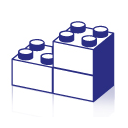
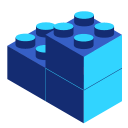
T162 - Pouvoir afficher l'image d'une vignette en grand - odoo-addons/prodex#175

diff --git a/web_image_zoom_widget/static/src/js/web_image_zoom_widget.js b/web_image_zoom_widget/static/src/js/web_image_zoom_widget.js
@@ -15,7 +15,7 @@ odoo.define('web_image_zoom_widget.image_zoom', function (require) {
             this._super();
             var self = this;
             var url_img = this.placeholder;
-            var src_img = this.options.src_img ? 'image' : this.name;
+            var src_img = this.options.src_img ? this.options.src_img : this.name;
             var size_img = this.options.src_img ? 'large' : 'small';
             var $img = null;
 
@@ -37,25 +37,23 @@ odoo.define('web_image_zoom_widget.image_zoom', function (require) {
                 $img.css("height", "" + self.options.size[1] + "px");
             }
 
-            if (self.options.src_img) {
-                self.$el.find('img.img.img-responsive').off().on('click', function () {
-                    $img.css("width", "max-content");
-                    $img.css("height", "max-content");
-                    let modal = new Dialog(self, {
-                        size: size_img,
-                        dialogClass: 'o_act_window fgdgdsgf',
-                        title: _t("Agrandissement"),
-                        $content: $img,
-                        buttons: [
-                            {
-                                text: _t("Close"), classes: 'btn-primary', close: true
-                            }
-                        ],
-                    });
-                    modal.open();
-                    modal.$el.parent('.modal-content').css('max-height', 'none');
+            self.$el.find('img.img.img-responsive').off().on('click', function () {
+                $img.css("width", "max-content");
+                $img.css("height", "max-content");
+                let modal = new Dialog(self, {
+                    size: size_img,
+                    dialogClass: 'o_act_window',
+                    title: _t("Agrandissement"),
+                    $content: $img,
+                    buttons: [
+                        {
+                            text: _t("Close"), classes: 'btn-primary', close: true
+                        }
+                    ],
                 });
-            }
+                modal.open();
+                modal.$el.parent('.modal-content').css('max-height', 'none');
+            });
         },
     });
 })

diff --git a/web_image_zoom_widget/__manifest__.py b/web_image_zoom_widget/__manifest__.py
@@ -17,15 +17,18 @@
 #    along with this program.  If not, see <http://www.gnu.org/licenses/>.
 #
 {
-    'name': "Web list fixed headers",
+    'name': "Web full size pop-up",
 
     'version': '0.1',
     'author': 'NDP Systèmes',
     'maintainer': 'NDP Systèmes',
-    'category': 'Technical',
+    'category': 'Web',
     'depends': ['web'],
-    'description': """A module that fix list headers
-        """,
+    'description': """
+Web full size pop-up
+====================
+Add an option to wizard image to open a pop-up with a full size image.
+""",
     'qweb': [
         "static/src/xml/*.xml",
     ],
